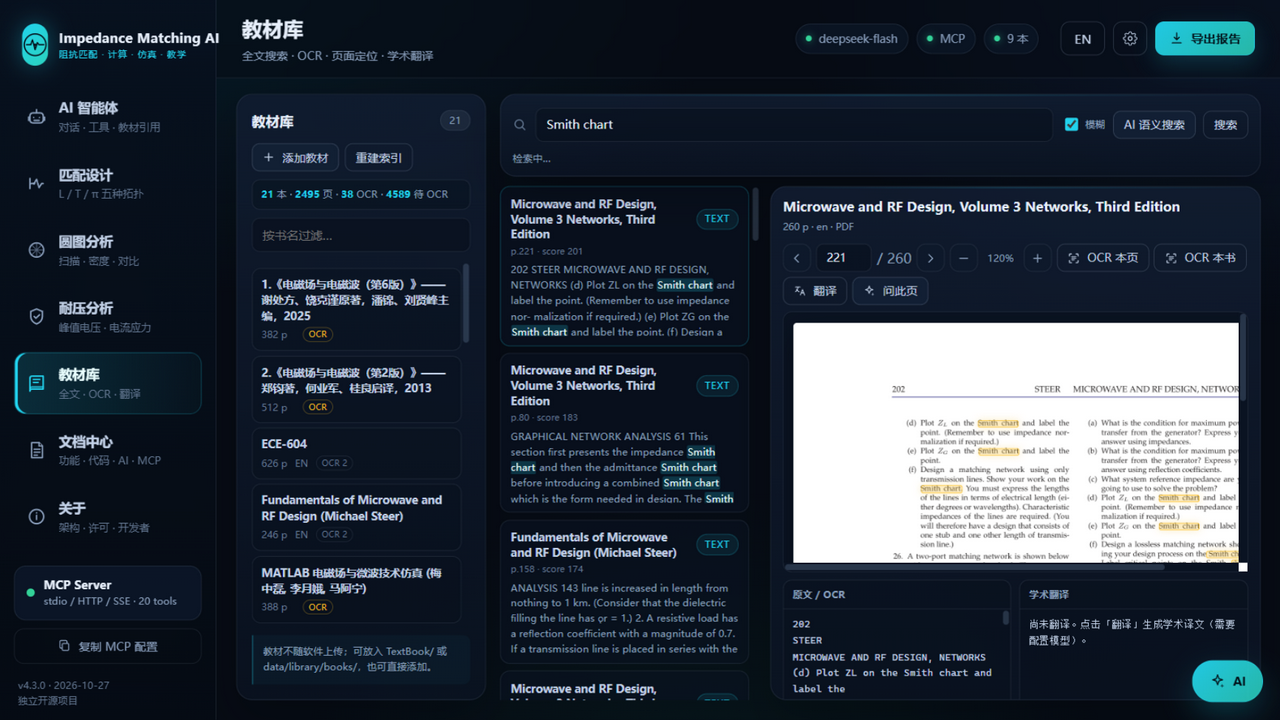
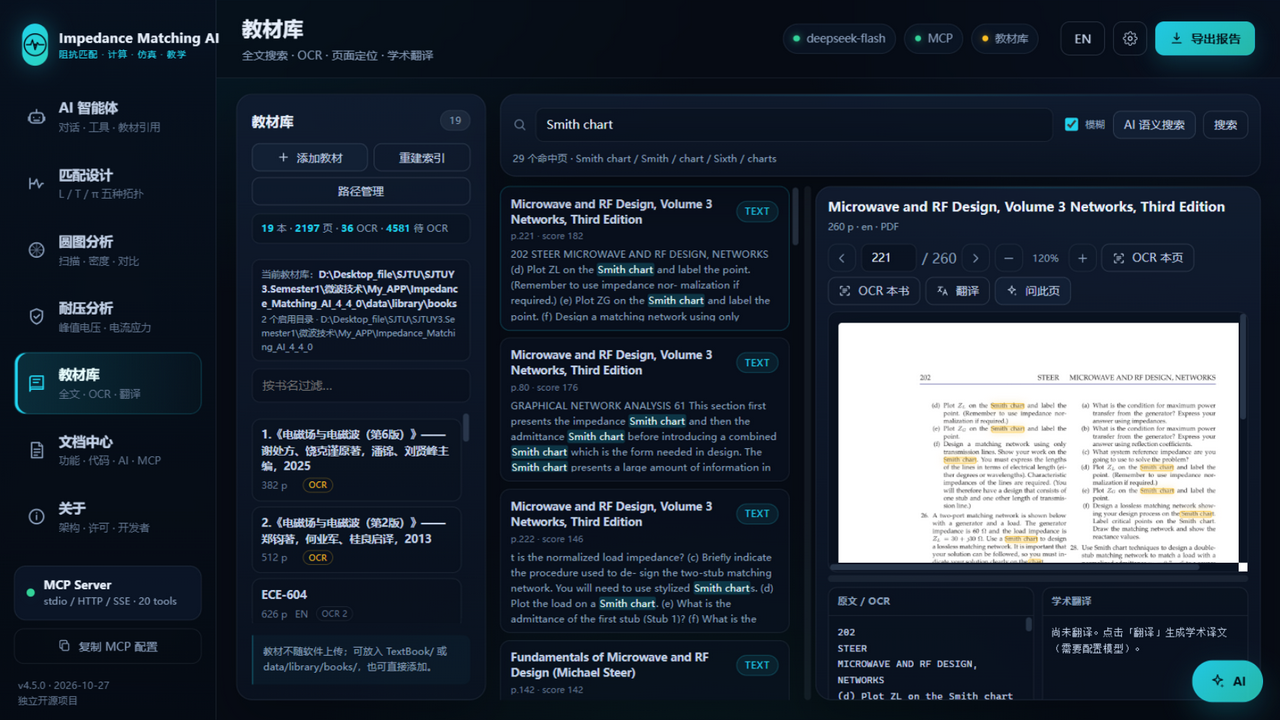
docs: refresh v4.5.0 interface screenshots
Replace the v4.3 screenshots in docs/assets with fresh v4.5.0 captures,
and correct the unit-test count from 72 to the current 90.

diff --git a/README.md b/README.md
@@ -179,7 +179,7 @@ app/
     web_server.py      # 本地 API
     web/               # 前端（含 vendor/mathjax）
     docs_content/      # 四域 Markdown 文档
-  tests/               # 72 项单元测试
+  tests/               # 90 项单元测试
 docs/
   build_static.py      # 生成安装包内的离线 HTML 说明书
   assets/              # 界面截图
@@ -197,7 +197,7 @@ release/
 python -m unittest discover -s app/tests -v
 ```
 
-- **72 项单元测试**：计算内核、物理审计、MCP 协议、教材索引/OCR、DOCX 教材、任意附件、引用裁剪、模型目录/费用/谷时窗口、Web API、智能体工具循环、视觉消息、附件缓存与长查询上限；新增配置迁移、路径优先级、扫描单调性、耐压扫描、分块上传、更新版本比较。
+- **90 项单元测试**：计算内核、物理审计、MCP 协议、教材索引/OCR、DOCX 教材、任意附件、引用裁剪、模型目录/费用/谷时窗口、Web API、智能体工具循环、视觉消息、附件缓存与长查询上限；新增配置迁移、路径优先级、扫描单调性、耐压扫描、分块上传、更新版本比较。
 - **随机工程跑测**：250 组随机频率/负载/拓扑设计与复核，0 失败；扫描区域随电容范围扩大单调不减。
 - **19 本中英文教材实测**：2197 页文字层索引、36 页 OCR、Smith chart / 反射系数 / 公式检索与页码定位。
 - **DeepSeek 实际 API 实测**：`deepseek-flash` 连接、工具调用、LaTeX 回答、思考链路事件、缓存命中率、上下文占用与费用统计。
